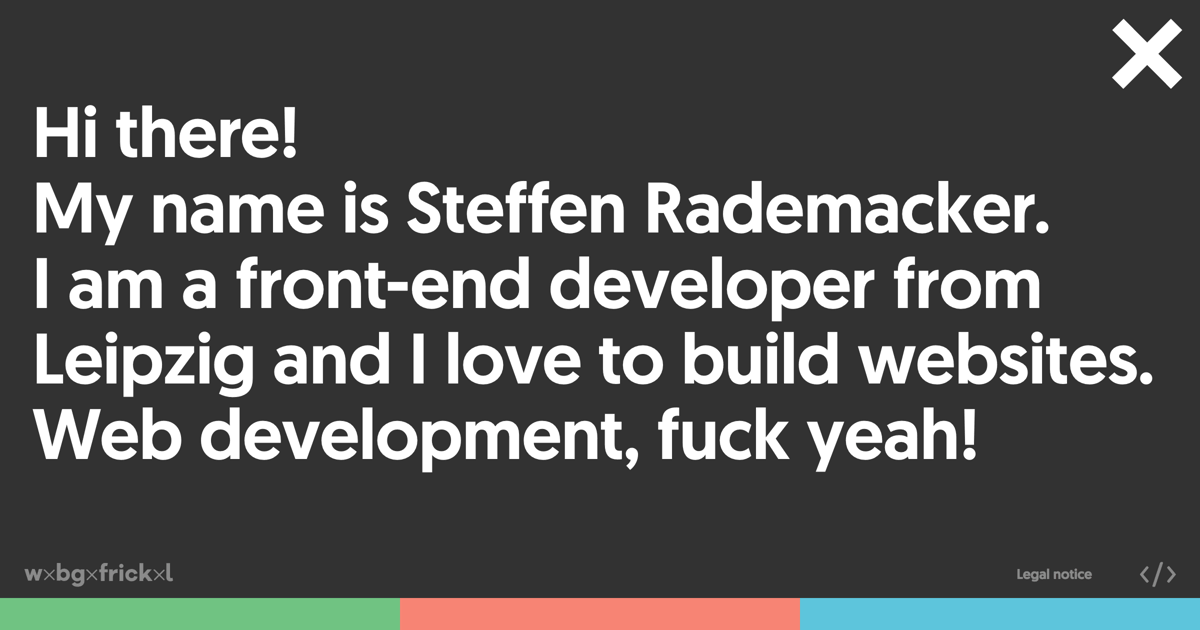
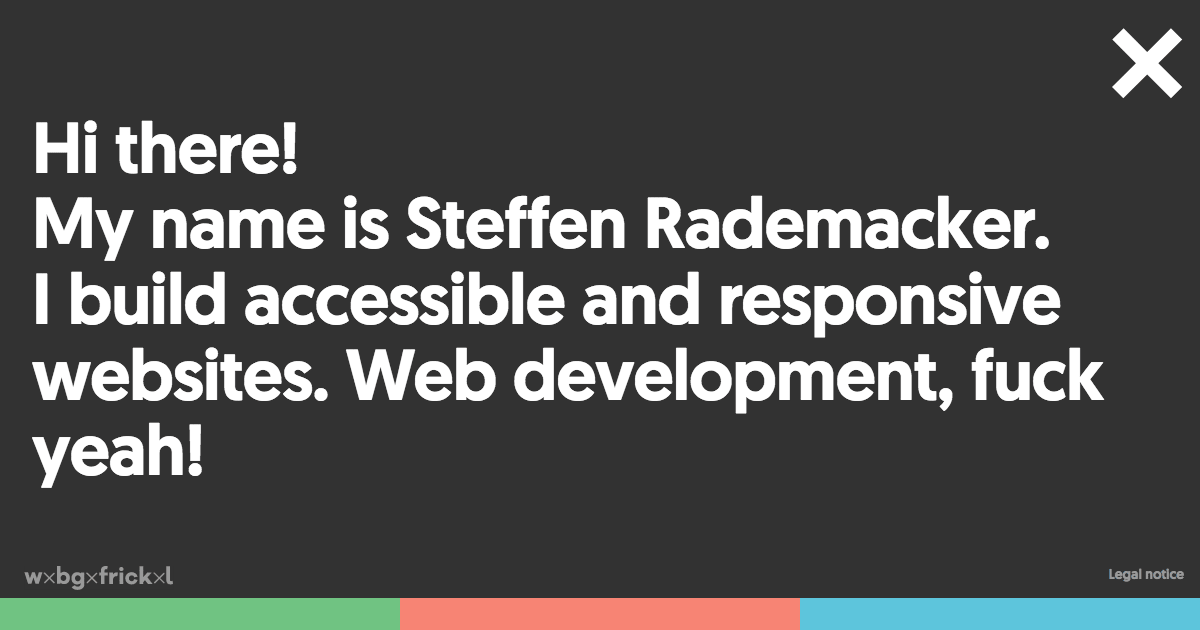
Update on contact/home for what I do

diff --git a/public/site/snippets/contactinfo.php b/public/site/snippets/contactinfo.php
@@ -10,7 +10,7 @@
     <br />
     <a class="link-default  u-email" href="mailto:<?= $site->email() ?>"><?= $site->email() ?></a>
     <br />
-    <a class="link-default  u-url" href="<?= u() ?>"><?= u() ?></a>
+    <a class="link-default  u-url" href="https://webgefrickel.de">https://webgefrickel.de</a>
     <br />
     <span class="p-tel"><?= $site->phone() ?></span>
     <data class="p-latitude" value="<?= $site->lat() ?>"></data>

diff --git a/public/content/1-contact/contact.en.md b/public/content/1-contact/contact.en.md
@@ -6,11 +6,11 @@ Info:
 
 ## What I do
 
-I focus on frontend development and architecture, and love to build styleguides for the web. But I have absolutely no problem building full stack websites with small content management systems like WordPress or Kirby.  I like DevOps and the terminal and care a lot about performance. And I like to teach about all that stuff and share my knowledge.
+I focus on front-end development and architecture, and I love to build styleguides and component libraries for the web, and of course: accessible, inclusive and responsive.  But I have absolutely no problem building full stack websites with my favorite content management system Kirby.  I like DevOps and the terminal and care a lot about performance and efficiency. And I like to teach about all that stuff and share my knowledge one-to-one or in workshops.
 
 I mostly work with/for full-service agencies, other developers and graphic designers. I am a team player and don't give a fuck about tabs vs. spaces (as long as it's consistent). I'm not a designer, but I have an eye for what works and what doesn't.  I have a degree in computer science and tons of experience building websites.
 
-If you want to work with me just give me a call or send an email to [kontakt@webgefrickel.de](mailto:kontakt@webgefrickel.de), so we can meet up over a coffee or tea and talk about your project.
+If you want to work with me contact me via email: [kontakt@webgefrickel.de](mailto:kontakt@webgefrickel.de), so we can meet up over a coffee or tea and talk about your project.
 
 ----
 
@@ -18,18 +18,16 @@ Principles:
 
 ## Principles
 
-1. Everything I do, every single line of code is open source.  If it's mine, it's yours.
-2. I am an honest and upfront person and we can talk about everything, and that's what I expect from you, too.
-3. A slow website is a bad website.  Performance matters, and I care a lot about it.
-4. I don't do non-responsive websites anymore.  It's 2017.
-5. Blind, dialog-free implementation of website layouts is boring.  I like to question and to be critical.
-6. I am open for *almost* any project, but if you are looking for a developer for your local right-wing party or hategroup: get lost.
-7. I have high expectations regarding my own work.  In return I expect fair and punctual payment.
-8. I'm not a magician: if your content and images are crap, your website will be crap. And there is nothing I can do about that by coding.
-9. Search engine optimization is voodoo.  I prefer to build websites for the actual users than for ever-changing corporate algorithms.
-10. I regard myself as a craftsman, and that's why I prefer to choose my tools by myself.  You can pry Vim from my cold dead hands.
-11. I am only one person, if I feel that a project is too big for me, I will tell you and/or look for help.
-12. Let's talk first. Maybe you can save a shitload of time and money, if we just meet up and chat about your ideas.
+1. Everything I do, every single line of code I write is open source.  If it's mine, it's yours.
+2. I am an honest and upfront person and I like to question and to be critical.  And that's what I expect from you, too.
+3. I don't do non-responsive, non-accessible websites, and I test with real devices.
+4. A slow website is a bad website.  Performance matters, and I care a lot about it.
+5. If you are racist, sexist, antifeminist or just some other kind of asshole, I won't work with or for you.
+6. I have high expectations regarding my own work.  In return I expect fair and punctual payment.
+7. I'm not a magician: if your content is crap, your website will be crap—there is nothing I can do about that by coding.
+8. Search engine optimization is voodoo.  I prefer to build websites for the actual users than for ever-changing corporate algorithms.
+9. I regard myself as a craftsman, and that's why I prefer to choose my tools by myself.  You can pry Vim from my cold dead hands.
+10. I am only one person, if I feel that a project is too big for me, I will tell you and/or look for help.
 
 ----
 
@@ -50,15 +48,15 @@ Buzzwords:
 
 <!-- -->
 
-* JavaScript
 * ES2017
 * jQuery
 * vue.js
 
 <!-- -->
 
-* WordPress
-* Kirby
+* Kirby CMS
+* LAMP
+* nginx
 
 <!-- -->
 
@@ -67,14 +65,7 @@ Buzzwords:
 
 <!-- -->
 
-* LAMP
-* nginx
-
-<!-- -->
-
 * node
-* npm
-* gulp
 * webpack
 
 <!-- -->
@@ -85,7 +76,9 @@ Buzzwords:
 
 <!-- -->
 
-* fluent in business english and native german speaker
+* native german speaker
+* fluent in business english
+* bad french and chinese
 
 ----
 

diff --git a/public/content/home/home.en.md b/public/content/home/home.en.md
@@ -4,7 +4,7 @@ Title: Home
 
 Welcome: Hi there!  
 My name is Steffen Rademacker.  
-I am a front-end developer from Leipzig and I love to build websites. Web development, fuck yeah!
+I build accessible and responsive websites. Web development, fuck yeah!
 
 ----
 
